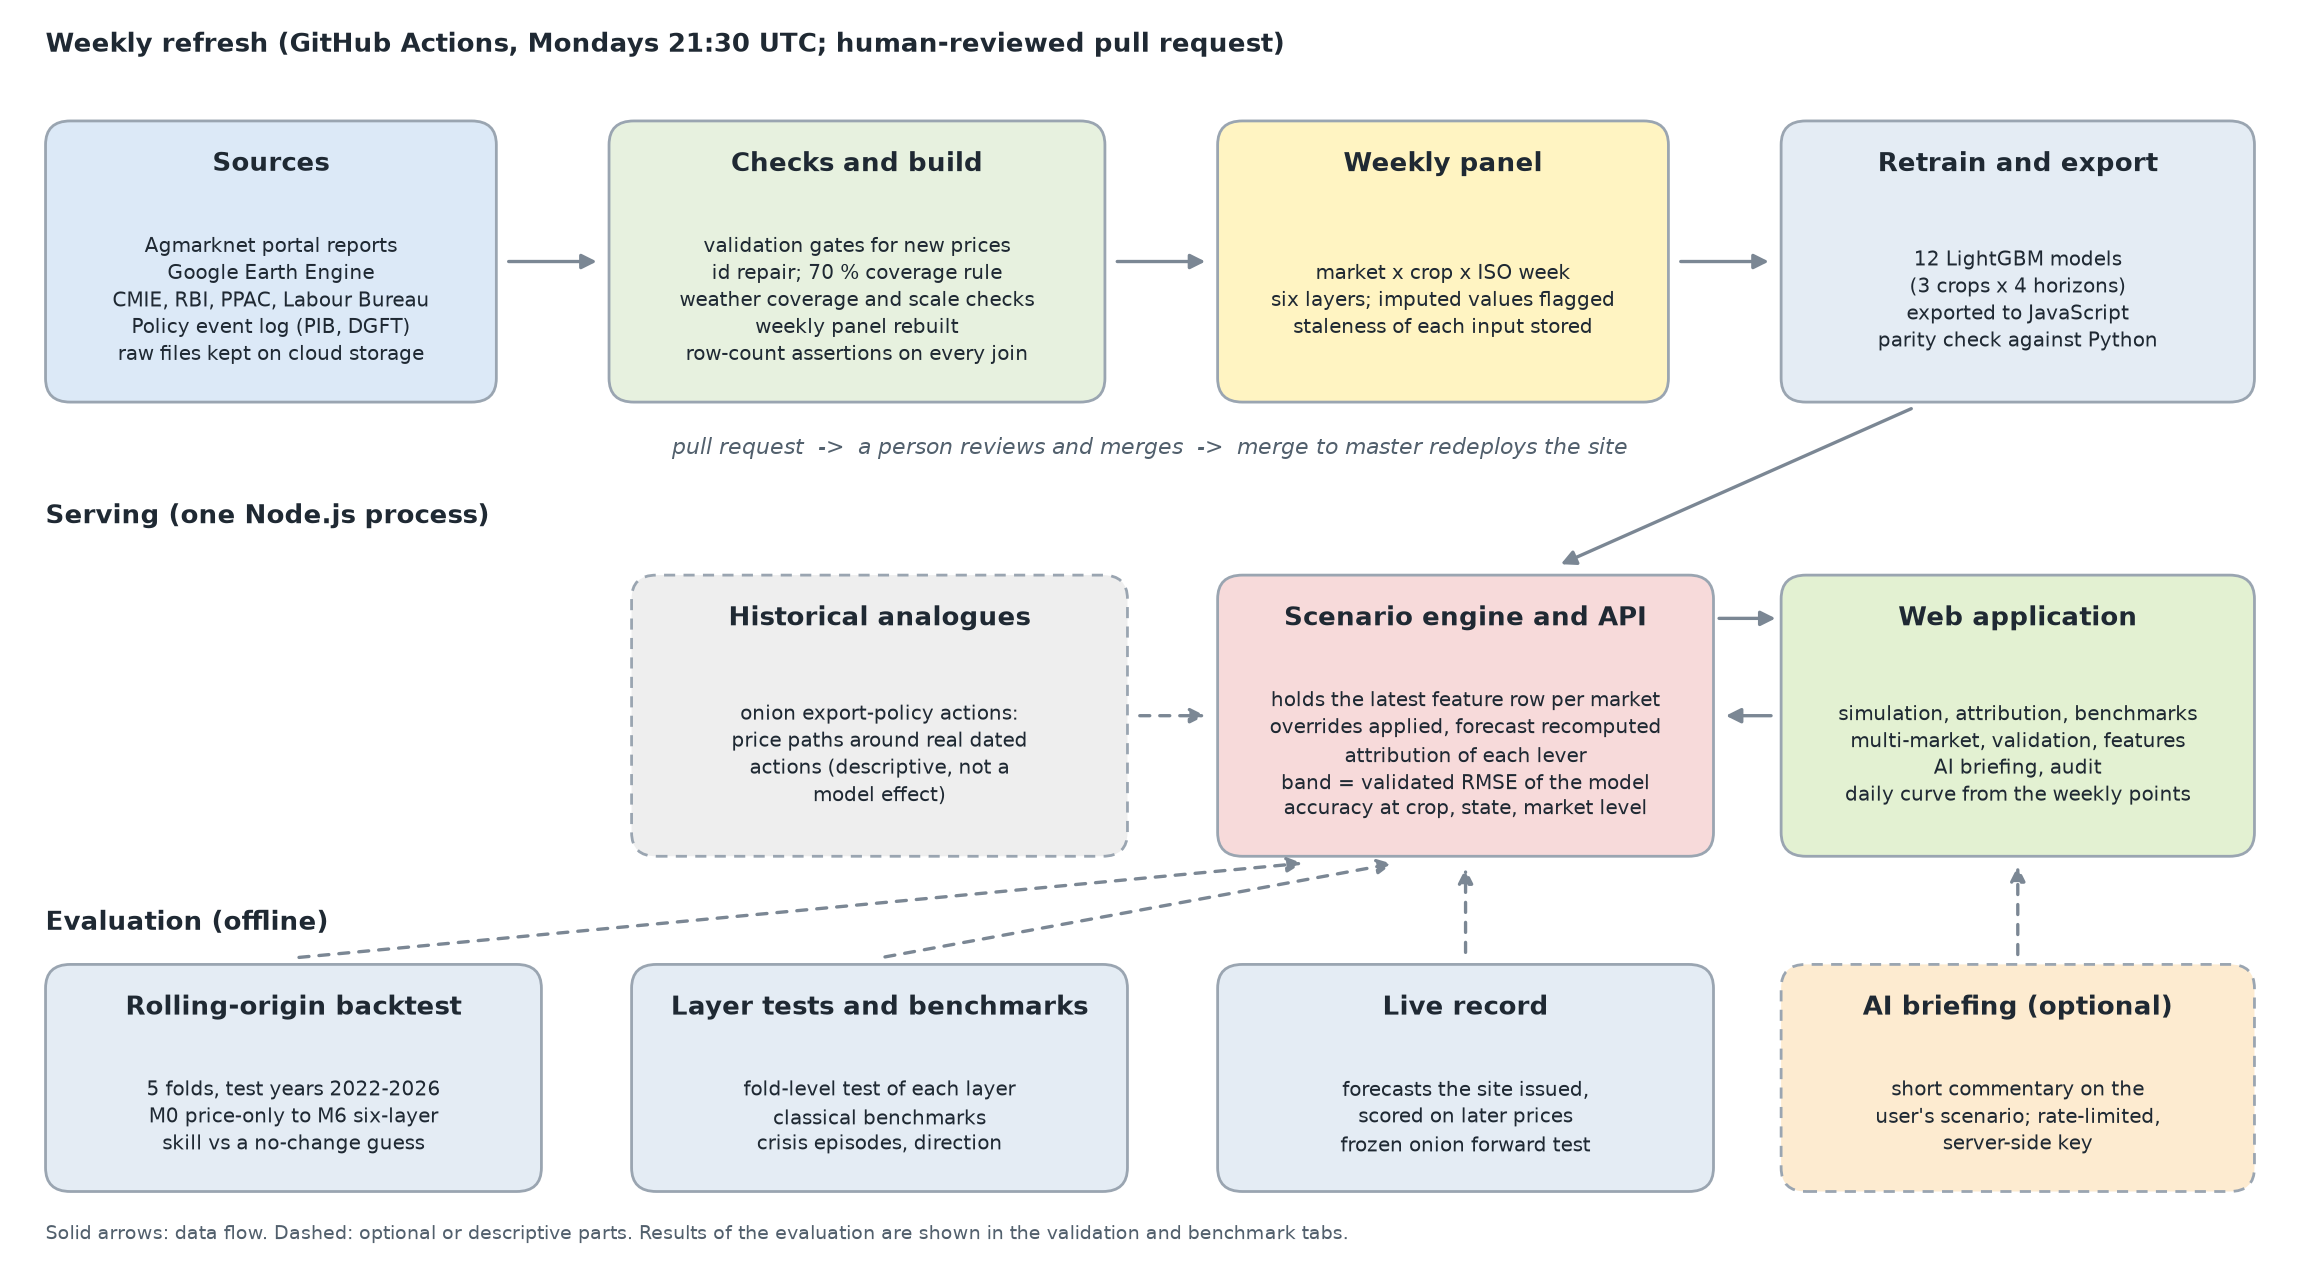
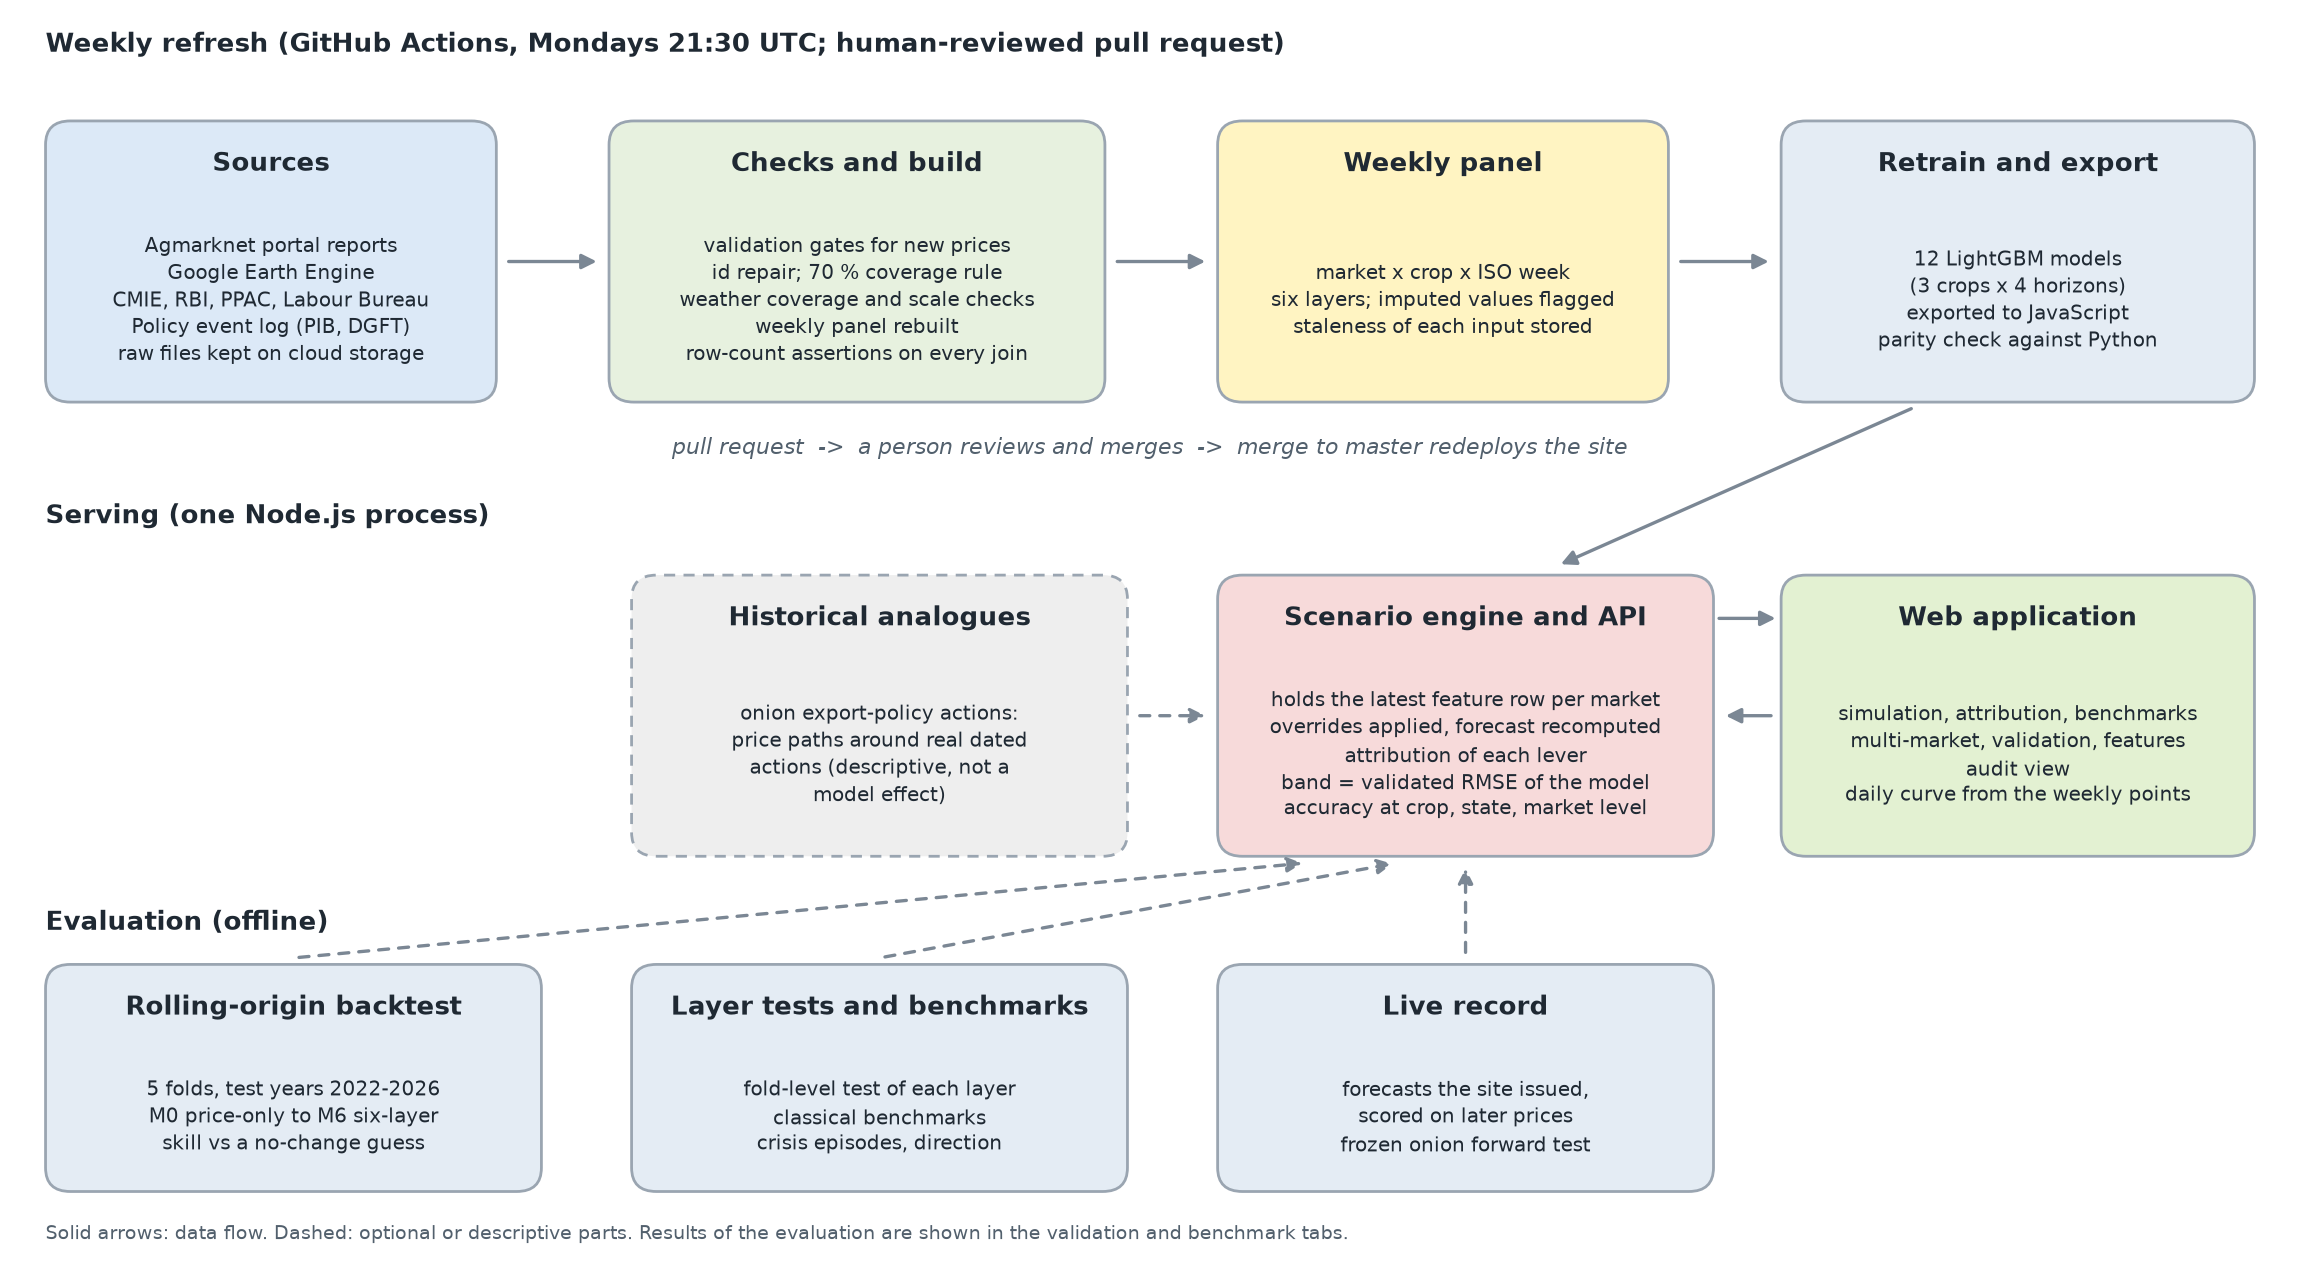
Architecture figure: remove the AI briefing boxes (feature removed 2026-11-13); script 86 updated

Changed region(s): [[0.7717, 0.75, 0.9878, 0.9375], [0.8335, 0.5938, 0.9261, 0.625]]

diff --git a/scripts/86_System_Architecture_Figure.py b/scripts/86_System_Architecture_Figure.py
@@ -2,7 +2,8 @@
 """
 Script 86 -- system architecture figure for manuscript Section 3 (not the data-layer figure of Section 2).
 Flow: weekly refresh (GitHub Actions, human-reviewed pull request) -> weekly panel -> twelve LightGBM models exported to JavaScript ->
-scenario engine and API (Express) -> web application; offline evaluation and the AI briefing as side parts.
+scenario engine and API (Express) -> web application; offline evaluation as a side part.
+2026-11-25: the optional AI briefing (language-model commentary) was removed from the application on 13 November 2026 and is no longer drawn.
 Output: Model_Output/fig_ms_system_architecture.png
 """
 import os
@@ -43,7 +44,7 @@ ax.text(50, 35.6, 'pull request  ->  a person reviews and merges  ->  merge to m
 # row 2: serving
 ax.text(1, 32.4, 'Serving (one Node.js process)', fontsize=9.4, fontweight='bold', color=INK)
 box(53, 17, 22, 13, '#F7DADA', 'Scenario engine and API', ['holds the latest feature row per market', 'overrides applied, forecast recomputed', 'attribution of each lever', 'band = validated RMSE of the model', 'accuracy at crop, state, market level'])
-box(78, 17, 21, 13, '#E3F1D2', 'Web application', ['simulation, attribution, benchmarks', 'multi-market, validation, features', 'AI briefing, audit', 'daily curve from the weekly points'])
+box(78, 17, 21, 13, '#E3F1D2', 'Web application', ['simulation, attribution, benchmarks', 'multi-market, validation, features', 'audit view', 'daily curve from the weekly points'])
 box(27, 17, 22, 13, '#EEEEEE', 'Historical analogues', ['onion export-policy actions:', 'price paths around real dated', 'actions (descriptive, not a', 'model effect)'], ls=(0, (4, 3)))
 arrow((77.8, 23.5), (75.3, 23.5), color='#7B8794'); arrow((75.0, 28.0), (78.0, 28.0))
 arrow((49.3, 23.5), (52.7, 23.5), ls=(0, (3, 3)))
@@ -54,11 +55,9 @@ ax.text(1, 13.6, 'Evaluation (offline)', fontsize=9.4, fontweight='bold', color=
 box(1, 1.5, 22, 10.5, '#E4ECF4', 'Rolling-origin backtest', ['5 folds, test years 2022-2026', 'M0 price-only to M6 six-layer', 'skill vs a no-change guess'])
 box(27, 1.5, 22, 10.5, '#E4ECF4', 'Layer tests and benchmarks', ['fold-level test of each layer', 'classical benchmarks', 'crisis episodes, direction'])
 box(53, 1.5, 22, 10.5, '#E4ECF4', 'Live record', ['forecasts the site issued,', 'scored on later prices', 'frozen onion forward test'])
-box(78, 1.5, 21, 10.5, '#FDEBD0', 'AI briefing (optional)', ['short commentary on the', 'user\'s scenario; rate-limited,', 'server-side key'], ls=(0, (4, 3)))
 arrow((12, 12.3), (57, 16.7), ls=(0, (3, 3)))
 arrow((38, 12.3), (61, 16.7), ls=(0, (3, 3)))
 arrow((64, 12.3), (64, 16.7), ls=(0, (3, 3)))
-arrow((88.5, 12.2), (88.5, 16.8), ls=(0, (3, 3)))
 ax.text(1, -0.7, 'Solid arrows: data flow. Dashed: optional or descriptive parts. Results of the evaluation are shown in the validation and benchmark tabs.', fontsize=7, color=MUTED)
 ax.set_ylim(-2, 56)
 fig.savefig(os.path.join(BASE, 'Model_Output', 'fig_ms_system_architecture.png'), dpi=200, facecolor='white')
